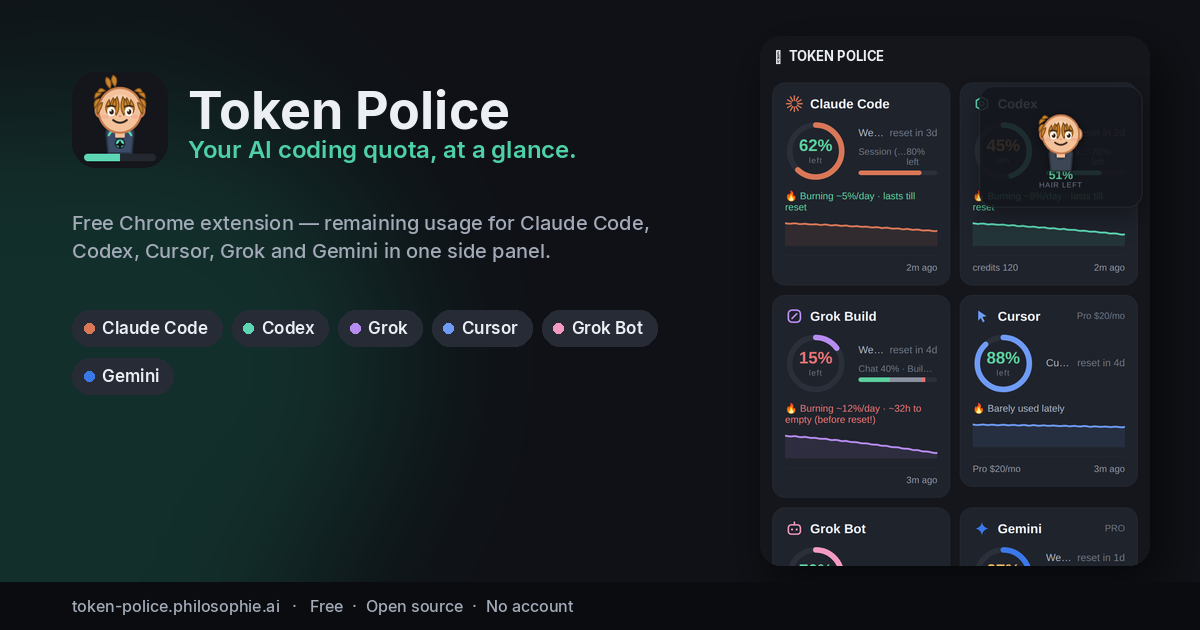
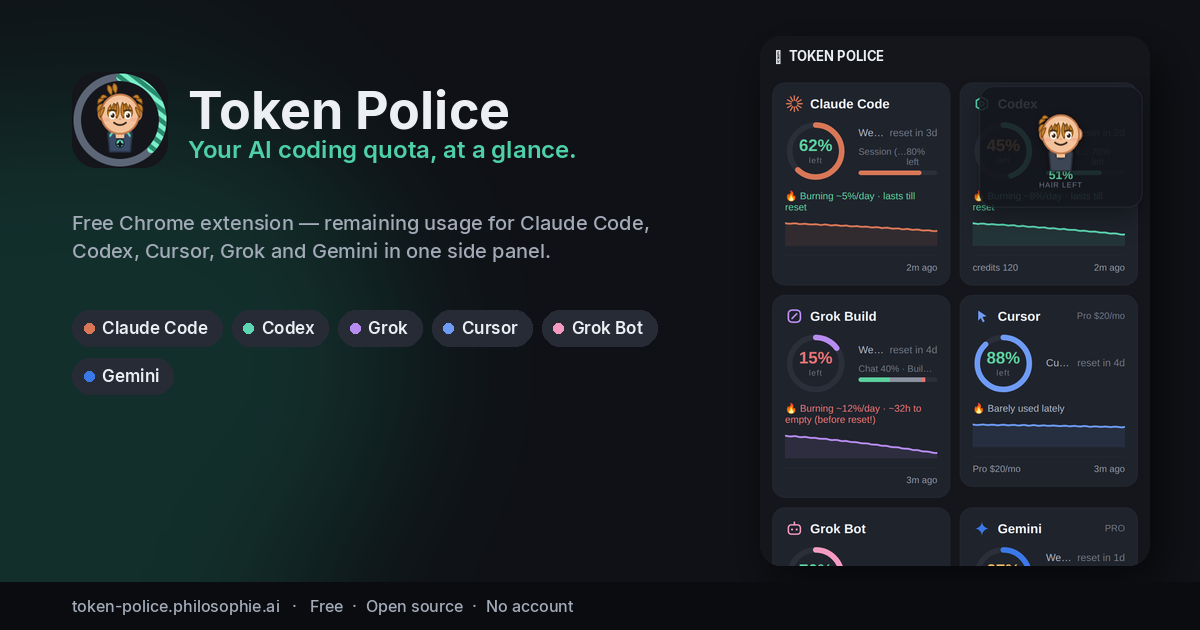
Replace the toolbar footer bar with a striped in-progress ring
The bottom half-bar covered the collar and did not read as progress.
The mark now has a circular ring in the tile margin: a dark track plus a
fixed ~37% mint arc from 12 o'clock with diagonal hatch, so it looks
like an in-progress meter rather than a neat 50/50 solid. Decorative
only — not remaining quota. Regenerated mark-*.png, favicon, and OG.
Docs note the striped ring is static artwork.

Changed region(s): [[0.0617, 0.1206, 0.1542, 0.2714]]

diff --git a/docs/index.html b/docs/index.html
@@ -288,7 +288,7 @@
       <div class="feat">
         <div class="ico"><svg viewBox="0 0 24 24" fill="none" stroke="currentColor" stroke-width="2" stroke-linecap="round" stroke-linejoin="round"><rect x="3" y="4" width="18" height="16" rx="2"/><path d="M9 4v16"/></svg></div>
         <h3 data-i18n="feat.3h">Side panel, one click</h3>
-        <p data-i18n="feat.3p">Click the toolbar icon to open the side panel. Quotas stay visible while Refresh scrapes — no extra windows stacked on top. The half-full bar on the icon is decorative, not live quota.</p>
+        <p data-i18n="feat.3p">Click the toolbar icon to open the side panel. Quotas stay visible while Refresh scrapes — no extra windows stacked on top. The striped ring on the icon is decorative, not live quota.</p>
       </div>
       <div class="feat">
         <div class="ico"><svg viewBox="0 0 24 24" fill="none" stroke="currentColor" stroke-width="2" stroke-linecap="round" stroke-linejoin="round"><path d="M6 16V11a6 6 0 0 1 12 0v5l2 2H4z"/><path d="M10 21h4"/></svg></div>

diff --git a/README.md b/README.md
@@ -37,7 +37,7 @@ it installs the same way, just with a few extra development files in the folder.
   window is the bar below it.
 - Once it has a few hours of history, it estimates your burn rate and warns when you'll run out **before** the next reset. Each card also draws a 7-day sparkline of your remaining quota.
 - When a tracked agent drops below 15% (and again below 5%) remaining, you get a desktop notification — togglable in settings.
-- The toolbar icon has a decorative half-full bar. It is static artwork, not remaining quota.
+- The toolbar icon has a decorative in-progress ring around the mascot (striped mint arc). It is static artwork, not remaining quota.
 - A tiny **hair mascot** floats on the dashboard, loses hair on the sit clock (2 hours normally, 1 hour if a tracked agent burned more than 10% in that window; remaining quota is a ceiling), and can be dragged or left to wander — togglable in settings. When the clock runs out and hair is gone, it asks you to move: a frosted veil covers the quota cards and 2–3 random rest activities appear from a pool of 100. Pick one, go do it, tap Done — the veil lifts, hair grows back, and the numbers are readable again.
 - **Move reminder** (on by default, switch in ⚙): when a tracked agent burns more than 10% of its quota within 2 hours, you get a nudge to stand up and touch some grass — at most once every 2 hours per agent. It is a nudge, not a lock: a browser extension can't stop your terminal.
 - An hourly **quiet auto-check** re-scrapes your tracked agents in background tabs without stealing focus (togglable). Pages that won't render in a background tab (can happen with Cursor/Grok) just keep their last data — click Refresh for a guaranteed update.
